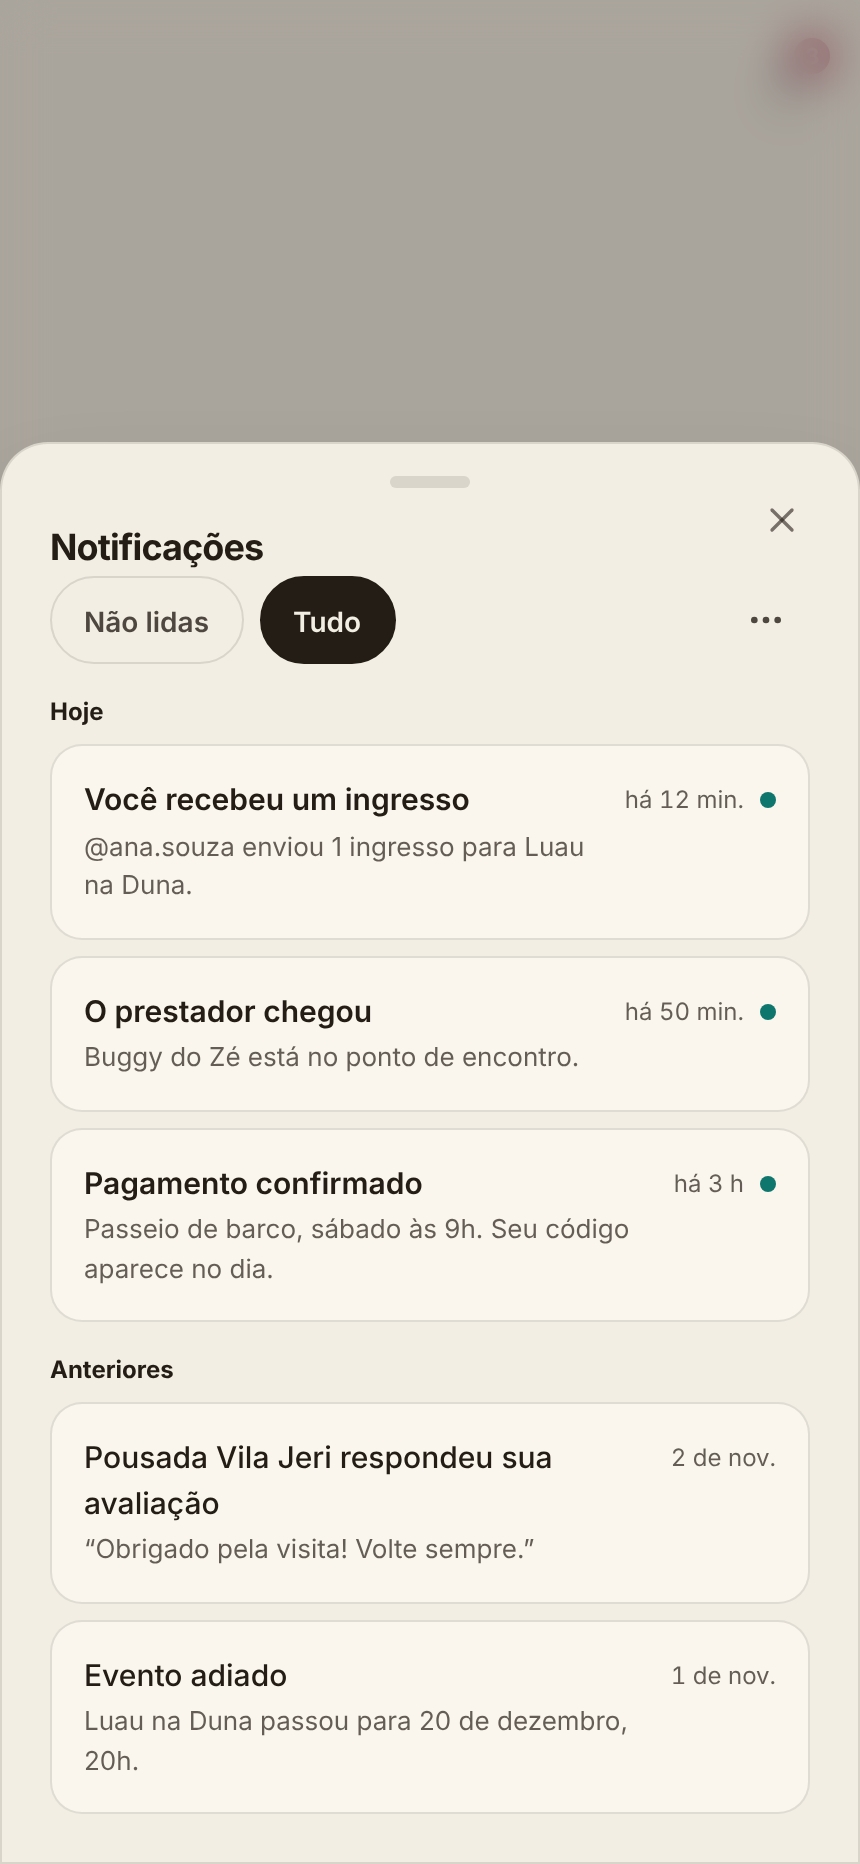
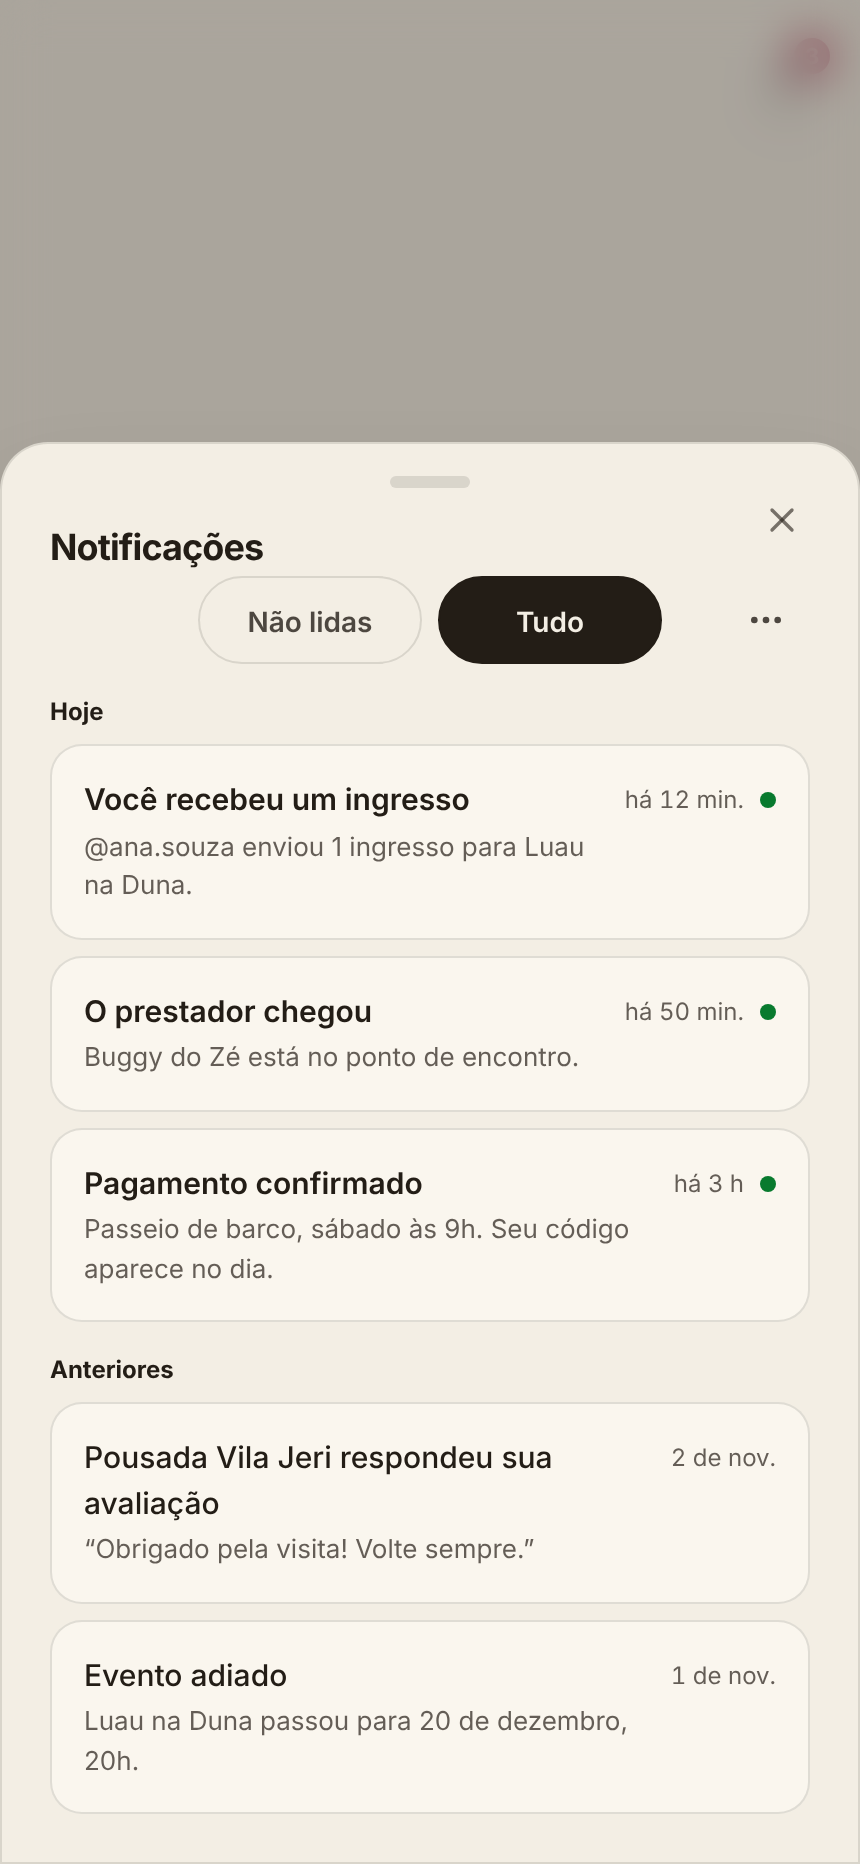
D26: verde de ação aprovado (concluído segue menta), AGENTS.md §11.1, interruptor branco na folha Decisão e filtros centralizados na central
Claude-Session: https://claude.ai/code/session_01B4DS9rUAeoBCKcvRgBPDfP

diff --git a/src/domain/notifications/components/NotificationCenterSheet.tsx b/src/domain/notifications/components/NotificationCenterSheet.tsx
@@ -64,7 +64,7 @@ export function NotificationCenterSheet({
 
   return (
     <Dialog open={open} onOpenChange={onOpenChange} title={t('notify.center.title')}>
-      <div className="flex items-center justify-between gap-2 -mt-1 mb-4">
+      <div className="relative flex items-center justify-center -mt-1 mb-4 min-h-11">
         <div className="flex gap-2">
           {(['unread', 'all'] as const).map((key) => (
             <button
@@ -73,7 +73,7 @@ export function NotificationCenterSheet({
               aria-pressed={filter === key}
               onClick={() => setFilter(key)}
               className={cn(
-                'press min-h-11 px-4 rounded-full text-[14px] font-semibold border focus-visible:ring-2 focus-visible:ring-teal-400/50',
+                'press min-h-11 w-28 px-3 rounded-full text-[14px] font-semibold border focus-visible:ring-2 focus-visible:ring-teal-400/50',
                 filter === key ? 'bg-ink text-app border-ink' : 'text-ink/80 border-line'
               )}
             >
@@ -81,30 +81,32 @@ export function NotificationCenterSheet({
             </button>
           ))}
         </div>
-        <DropdownMenu
-          trigger={
-            <button
-              type="button"
-              aria-label={t('notify.center.more')}
-              className="press w-11 h-11 rounded-full flex items-center justify-center text-ink/80 hover:bg-ink/[0.06] focus-visible:ring-2 focus-visible:ring-teal-400/50"
-            >
-              <Ellipsis size={20} aria-hidden="true" />
-            </button>
-          }
-          items={[
-            {
-              label: t('notify.center.settings'),
-              icon: <SlidersHorizontal size={18} aria-hidden="true" />,
-              onClick: onOpenSettings,
-            },
-            {
-              label: t('notify.center.markAll'),
-              icon: <CheckCheck size={18} aria-hidden="true" />,
-              onClick: onMarkAllRead,
-              disabled: !hasUnread,
-            },
-          ]}
-        />
+        <div className="absolute right-0 top-1/2 -translate-y-1/2">
+          <DropdownMenu
+            trigger={
+              <button
+                type="button"
+                aria-label={t('notify.center.more')}
+                className="press w-11 h-11 rounded-full flex items-center justify-center text-ink/80 hover:bg-ink/[0.06] focus-visible:ring-2 focus-visible:ring-teal-400/50"
+              >
+                <Ellipsis size={20} aria-hidden="true" />
+              </button>
+            }
+            items={[
+              {
+                label: t('notify.center.settings'),
+                icon: <SlidersHorizontal size={18} aria-hidden="true" />,
+                onClick: onOpenSettings,
+              },
+              {
+                label: t('notify.center.markAll'),
+                icon: <CheckCheck size={18} aria-hidden="true" />,
+                onClick: onMarkAllRead,
+                disabled: !hasUnread,
+              },
+            ]}
+          />
+        </div>
       </div>
 
       {loading ? (

diff --git a/src/domain/payment/components/admin/SaleClaimDecisionDialog.tsx b/src/domain/payment/components/admin/SaleClaimDecisionDialog.tsx
@@ -172,7 +172,7 @@ export function SaleClaimDecisionDialog({
               />
               <span
                 aria-hidden="true"
-                className="relative w-11 h-6 shrink-0 rounded-full bg-ink/20 transition-colors peer-checked:bg-teal-500 after:absolute after:top-0.5 after:left-0.5 after:w-5 after:h-5 after:rounded-full after:bg-surface-solid after:shadow after:transition-[translate] peer-checked:after:translate-x-5"
+                className="relative w-11 h-6 shrink-0 rounded-full bg-ink/20 transition-colors peer-checked:bg-teal-500 after:absolute after:top-0.5 after:left-0.5 after:w-5 after:h-5 after:rounded-full after:bg-[#ffffff] after:shadow after:transition-[translate] peer-checked:after:translate-x-5"
               />
             </label>
           )}

diff --git a/docs/arquitetura/decisoes.md b/docs/arquitetura/decisoes.md
@@ -369,3 +369,13 @@ Aprovada pelo responsável do produto em 2026-11-03 (proposta em `docs/arquitetu
 * **Revisão das telas (aprovada em 2026-11-03, substitui os interruptores por categoria, o silêncio noturno e o resumo diário como interruptor):** avisos que evitam perder um serviço, um prazo ou dinheiro chegam sempre, sem interruptor — compras e pagamentos, ingressos e reservas, conta e, para o parceiro, cancelamentos, reclamações, avaliações dos clientes, repasses e cadastro. A pessoa escolhe só **Pedidos de avaliação** (ligado) e **Novidades e ofertas** (desligado); o parceiro escolhe **aviso a cada venda** ou **resumo no fim do dia**. Avisos opcionais nunca chegam das 23h30 às 5h30 (Fortaleza; ajustado em 2026-11-03 a pedido do responsável do produto). Central com filtro "Não lidas / Tudo", menu "…" (Configurações, marcar todas como lidas) e "Você está em dia". Suporte como central de ajuda (saudação com busca, compras, assuntos, perguntas mais lidas, contato). Textos para quem usa o app, sem termos técnicos; visual da base D17 (ícones neutros, cor só com significado). Referências: Airbnb, Tripadvisor, Apple HIG.
 * **Adiado (2026-11-03):** aviso de evento novo para quem favoritou o lugar ou o organizador. O evento não aponta para um lugar do guia; a forma (pelo dono, pelo lugar escolhido no cadastro do evento ou "seguir o organizador") fica para decisão futura. Quando vier, entra como aviso opcional de Novidades.
 * **Avisos implementados (23.2 a 23.3):** 36 tipos gravados como tipo + dados, traduzidos no app e no push (textos espelhados com teste de paridade); fila de envio (outbox) com job a cada minuto, lembretes a cada 15 min (véspera e 2 h antes), resumo de vendas às 20h e convite para avaliar (único opcional hoje). Troca de senha e confirmação de e-mail não geram aviso (acontecem no Firebase Auth, sem passar pelo backend).
+
+## D26 — Verde forte para ação e folhas no tema claro (2026-11-03)
+
+Aprovada pelo responsável do produto em 2026-11-03.
+
+* **Cor de ação:** verde #11D450 (entre #21C063 e #01E93E), no lugar do verde-água. Fica na escala `teal-*` redefinida em `src/index.css` (o 400 é o tom principal), sem trocar as classes dos componentes; tokens `accent`: #3EE47A no escuro e #087A2E no claro (contraste AA sobre o bege). Stripe usa a mesma cor (`colorPrimary`).
+* **Concluído continua verde-menta** (#6EE7B7 no escuro): status é texto com ponto, nunca botão, então não se confunde com a ação (opção A).
+* **Folhas no tema claro seguem as telas:** fundo bege (#f3eee4) e cartões claros (#faf6ee) com borda (`bg-sheet`, `bg-sheet-card`, `border-sheet-card-line`). No escuro nada muda.
+* **Interruptores:** bolinha sempre branca, nos dois temas.
+* **AGENTS.md §11.1** atualizado com a cor nova (autorizado em 2026-11-03).

diff --git a/AGENTS.md b/AGENTS.md
@@ -615,8 +615,8 @@ Passeios, aluguéis, translados e entradas de atrações privadas compartilham o
 
 ### 11.1. Identidade visual
 
-* **Estilo:** superfícies sólidas e discretas sobre fundo neutro e liso: grafite no escuro (fundo `#0d0e10`, cartão `#1e2024`) e bege no claro (fundo `#f3eee4`, cartão `#faf6ee`). Sem gradientes, padrões nem linhas decorativas no fundo. Vidro (desfoque) só em barras fixas e folhas sobre o conteúdo. Cor só com significado: verde-água para ação, amarelo para pendente, verde para concluído, vermelho para perigo. Uma ação principal por tela; as demais como texto. Tema **dark é o padrão de design**; em Configurações a pessoa escolhe claro, escuro ou sistema (`ThemeContext`, `AppearanceSettingsView`). Todo componente novo ou tocado DEVE funcionar nos dois temas com os tokens `--ug-*` de `src/index.css` (`bg-app`, `text-ink`, `bg-surface`, `border-line`, `text-warn`, `text-danger`…), nunca `text-white` fixo em superfície que muda de cor. O tema claro NUNCA usa branco puro: fundo off-white bege (`#f3eee4`) e superfícies `#faf6ee`. O tema é aplicado antes da primeira pintura (sem piscar) e o `theme-color` acompanha o tema.
-* **Accent:** teal (`teal-400`/`teal-500`); emerald = sucesso; cyan = informação.
+* **Estilo:** superfícies sólidas e discretas sobre fundo neutro e liso: grafite no escuro (fundo `#0d0e10`, cartão `#1e2024`) e bege no claro (fundo `#f3eee4`, cartão `#faf6ee`). Sem gradientes, padrões nem linhas decorativas no fundo. Vidro (desfoque) só em barras fixas e folhas sobre o conteúdo. Cor só com significado: verde (#11D450) para ação, amarelo para pendente, verde-menta para concluído, vermelho para perigo. Uma ação principal por tela; as demais como texto. Tema **dark é o padrão de design**; em Configurações a pessoa escolhe claro, escuro ou sistema (`ThemeContext`, `AppearanceSettingsView`). Todo componente novo ou tocado DEVE funcionar nos dois temas com os tokens `--ug-*` de `src/index.css` (`bg-app`, `text-ink`, `bg-surface`, `border-line`, `text-warn`, `text-danger`…), nunca `text-white` fixo em superfície que muda de cor. O tema claro NUNCA usa branco puro: fundo off-white bege (`#f3eee4`) e superfícies `#faf6ee`. O tema é aplicado antes da primeira pintura (sem piscar) e o `theme-color` acompanha o tema.
+* **Accent:** verde #11D450, nas classes `teal-*` (o 400 é o tom principal, redefinido em `src/index.css`); menta = sucesso; ciano = informação. No tema claro, texto de ação #087A2E.
 * **Tipografia:** Inter (texto/UI) e Outfit (display). Proibida uma terceira fonte.
 * **Superfície elevada:** cartão sólido do design system (`GlassCard` passa a ser sólido, sem desfoque).
 

diff --git a/docs/design/base-d17/README.md b/docs/design/base-d17/README.md
@@ -1,6 +1,6 @@
 # Base visual D17 — telas de referência
 
-Prints aprovados em 2026-10-27, tirados do app depois dos prompts 20.0 e 20.1 (reservas e pedidos atualizados com o voltar `<` e o código do pedido). São a referência para levar as demais telas ao visual novo (AGENTS.md §11.1, decisão D17 em `docs/arquitetura/decisoes.md`).
+Prints aprovados em 2026-10-27 (os de 2026-11-03 já com o verde #11D450 da D26; os demais mostram o verde-água antigo, valem pelo layout), tirados do app depois dos prompts 20.0 e 20.1 (reservas e pedidos atualizados com o voltar `<` e o código do pedido). São a referência para levar as demais telas ao visual novo (AGENTS.md §11.1, decisão D17 em `docs/arquitetura/decisoes.md`).
 
 | Arquivo | Tela | Tema |
 |---|---|---|
@@ -10,7 +10,8 @@ Prints aprovados em 2026-10-27, tirados do app depois dos prompts 20.0 e 20.1 (r
 | `dark-4-pedidos.png` / `light-4-pedidos.png` | Ingressos › Pedidos | escuro / claro |
 | `dark-5-admin-reclamacoes.png` | Admin › Financeiro › Reclamações (lista compacta) | escuro |
 | `light-6-admin-decidir.png` | Folha de decisão da reclamação (refeito em 2026-11-03: folha bege, cartões claros) | claro |
-| `light-7-central-notificacoes.png` | Folha da central de notificações | claro |
+| `light-7-central-notificacoes.png` | Folha da central de notificações (filtros centralizados) | claro |
+| `dark-10-notificacoes.png` | Configurações › Notificações do parceiro, verde de ação (D26) | escuro |
 | `dark-8-admin-forca-maior-folha.png` | Folha da força maior | escuro |
 | `dark-9-admin-dividas.png` | Admin › Financeiro › Dívidas | escuro |
 | `fr-reservas-anteriores.png` | Minhas reservas em francês | escuro |
@@ -18,6 +19,7 @@ Prints aprovados em 2026-10-27, tirados do app depois dos prompts 20.0 e 20.1 (r
 
 ## Padrões que estas telas fixam
 
+- Cor de ação verde #11D450 (D26): botão principal, interruptor, opção escolhida e ponto de não lido.
 - Fundo liso (`bg-app`) e cartões sólidos (`bg-surface`, borda `border-line`, cantos de 20 px).
 - Cartão com o que é e quando; uma linha só, separada por divisória, com o que a pessoa precisa saber ou fazer agora.
 - Status como texto com ponto colorido (`StatusText`), sem caixa com borda.
